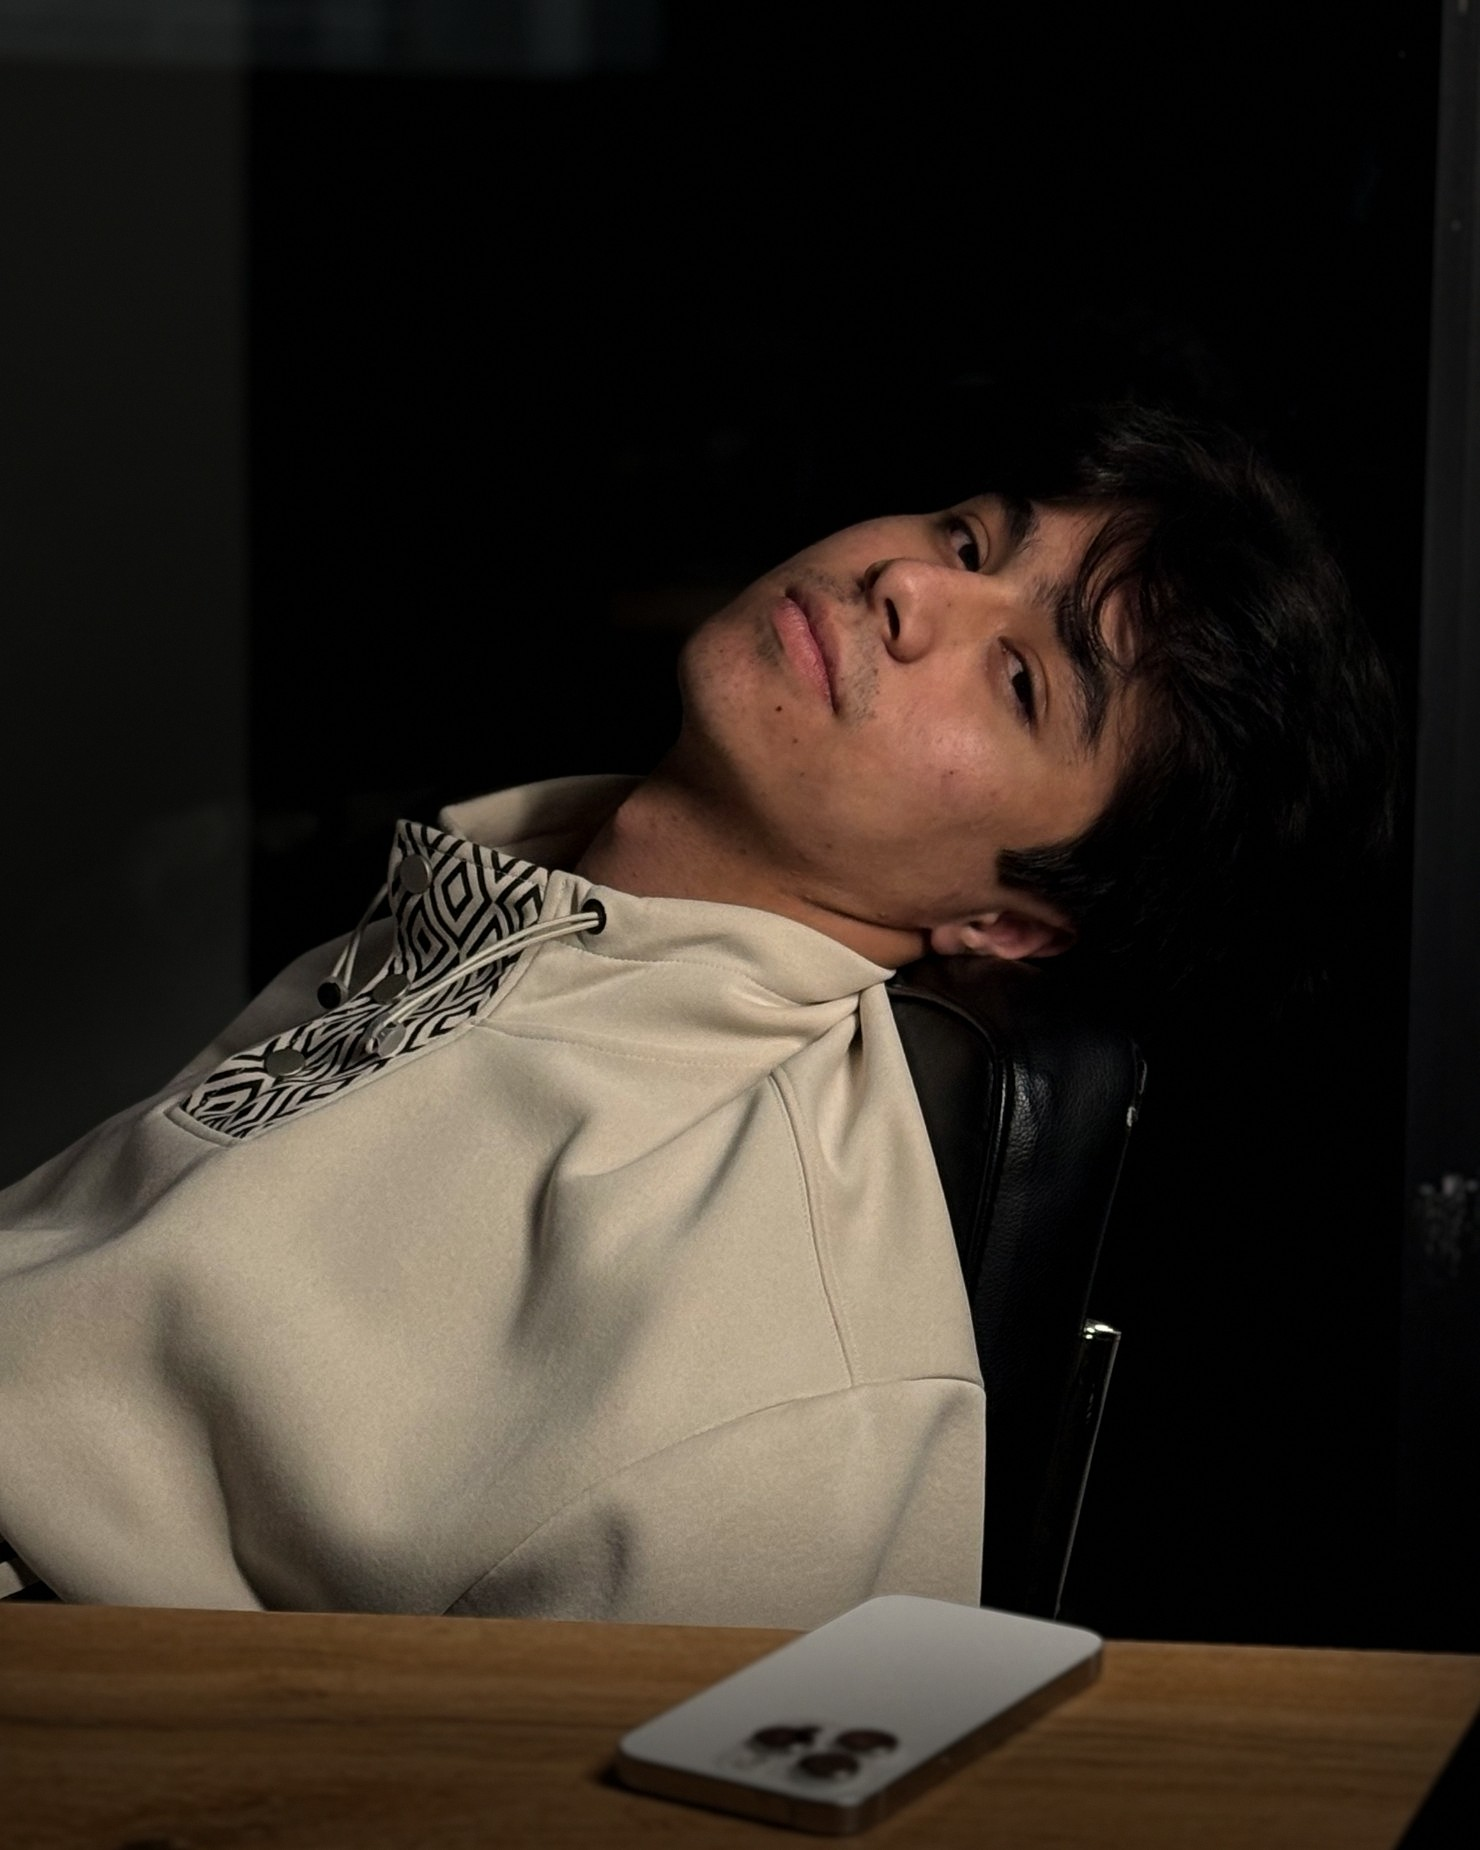
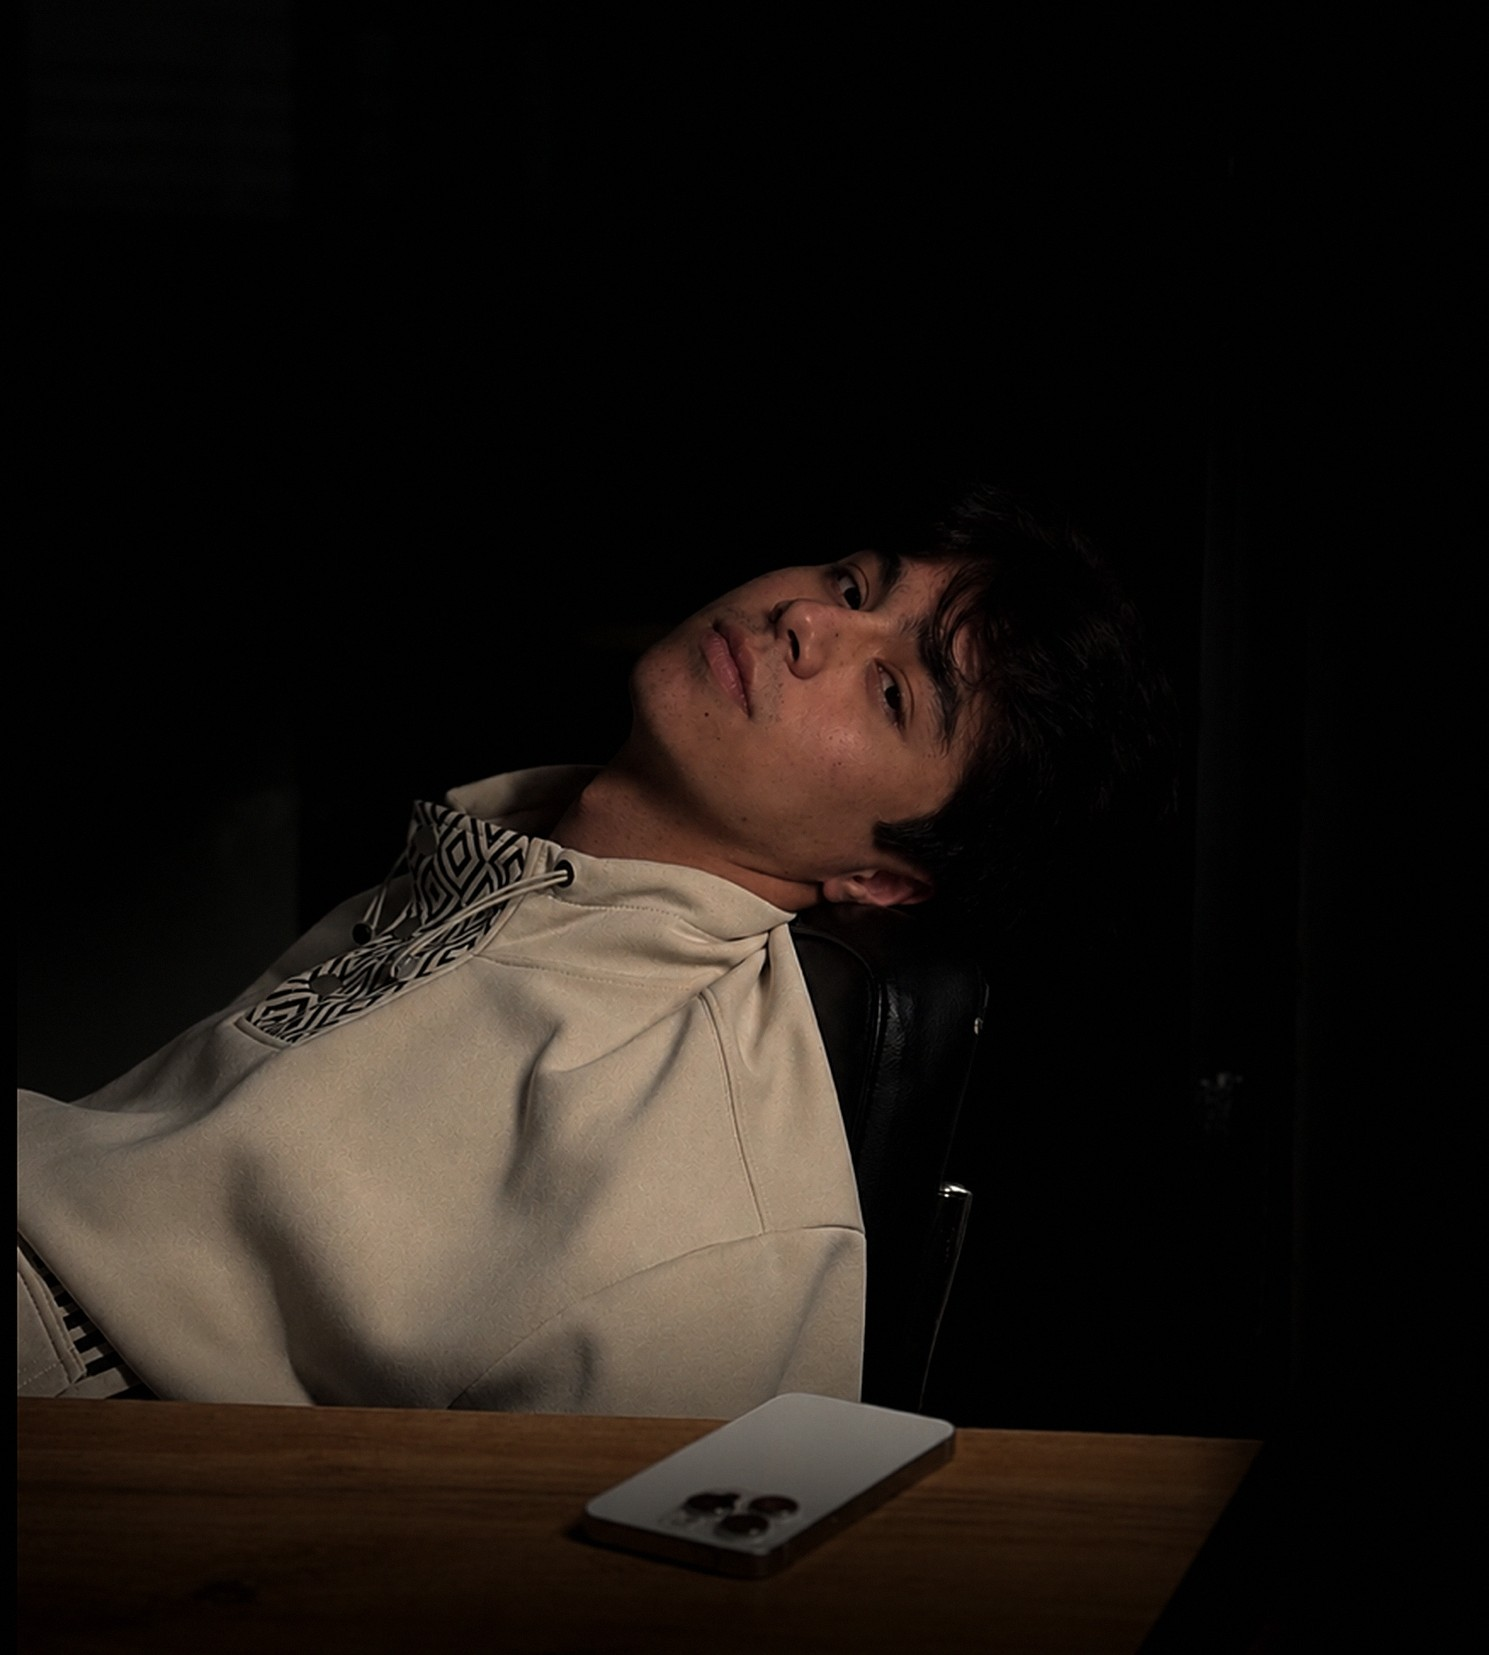
Home: new founder photo, FAQ section removed
Claude-Session: https://claude.ai/code/session_01UdeitsCY3sETaZTGToGCpC

diff --git a/features/marketing/components/HomePage.tsx b/features/marketing/components/HomePage.tsx
@@ -5,7 +5,6 @@ import { Logo } from "@/core/design/ui";
 import { BerryStripe, BtnLink, DesignPicker, Sprinkles, Sticker, ThemeButton } from "@/core/shell";
 import founder from "@/public/home/founder.jpg";
 import screen from "@/public/home/screen.jpg";
-import { Faq } from "./Faq";
 import { Showcase } from "./Showcase";
 
 /**
@@ -19,7 +18,6 @@ const NAV = [
   { href: "#why", label: "Why us" },
   { href: "#designs", label: "Designs" },
   { href: "#profiles", label: "Profiles" },
-  { href: "#faq", label: "FAQ" },
 ];
 
 /** Where each photo fades into the page (CSS mask layers, all must be opaque to show). */
@@ -83,7 +81,7 @@ export function HomePage() {
           >
             <Image
               src={founder}
-              alt="The founder of QuantumTest, leaning back in his chair"
+              alt="The founder of QuantumTest, leaning back in a chair at a desk"
               priority
               placeholder="blur"
               sizes="(min-width: 1024px) 60vw, 100vw"
@@ -178,18 +176,6 @@ export function HomePage() {
             <span className="text-graphite">Photo. Bio. Rank.</span>
           </Title>
           <Showcase />
-        </div>
-      </section>
-
-      {/* FAQ */}
-      <section id="faq" className="relative scroll-mt-24 border-t border-hairline px-5 py-24 sm:px-8 sm:py-32">
-        <div className="mx-auto grid max-w-[1200px] gap-10 lg:grid-cols-[minmax(0,0.8fr)_minmax(0,1.2fr)]">
-          <Title>
-            Asked.
-            <br />
-            <span className="text-graphite">Answered.</span>
-          </Title>
-          <Faq />
         </div>
       </section>
 

diff --git a/CLAUDE.md b/CLAUDE.md
@@ -43,7 +43,7 @@ steps, and run `npm run check` before saying something is done.
 - Logo: a "Q" ring with a short tail and a small particle in orbit (`core/design/ui/Logo.tsx`, `app/icon.svg`), colored by the design; Strawberry shows a strawberry. `Wordmark` is "Quantum" + "Test".
 - English/Math switch (`SubjectSegment`): bigger, tinted track in the main color, chosen subject solid.
 - The exam screens (test, practice while running, review; class `exam`) never change with the design: they keep the Bluebook look below.
-- Home page, third pass (owner request 28 Nov 2026, second round the same night; replaces the description below where they differ): two always-dark sections (`.fp-dark`: the design's dark colors even in light mode) built around the owner's photos, which melt into the page (`.fp-blend` in globals.css: edges fade out with a CSS mask, the photo's blacks become the page's own background with a `lighten` layer, a soft light in the design's main color behind; `--fp-keep` cuts the TV screen out of that layer so it keeps its colors). 1) Hero: `public/home/founder.jpg` on the right (relit, face and pose untouched), "They not like us." / "We don't sell hope. We give it." / Start + Why us? on the left, aligned with his face, and a giant "QuantumTest" (the page's h1) across the photo's faded bottom. 2) `public/home/screen.jpg`: the owner holding a light toward a TV that shows our dashboard in Nerd dark mode (a real capture of /dev/dashboard warped onto the screen; his profile shows 780; NYU stickers on the stand painted out), with "Why us? / Explore. / Not another prep site.". Then the design dial, Profiles ("Make it yours. Photo. Bio. Rank." + `Showcase`), FAQ, closing banner "Your choice.". No feature tags on the photo, no collage hero, facts strip or bento (owner request). Voice: mysterious, short, bold, direct, cold, nonchalant, intelligent, never cliché. New visitors get dark mode (THEME_SCRIPT: no saved theme = dark; "Match device" is saved as "system").
+- Home page, third pass (owner request 28 Nov 2026, second round the same night; replaces the description below where they differ): two always-dark sections (`.fp-dark`: the design's dark colors even in light mode) built around the owner's photos, which melt into the page (`.fp-blend` in globals.css: edges fade out with a CSS mask, the photo's blacks become the page's own background with a `lighten` layer, a soft light in the design's main color behind; `--fp-keep` cuts the TV screen out of that layer so it keeps its colors). 1) Hero: `public/home/founder.jpg` on the right (the owner leaning back at a desk, his photo of 28 Nov 2026; relit so the wall fades to dark, face and pose untouched, no skin retouch), "They not like us." / "We don't sell hope. We give it." / Start + Why us? on the left, aligned with his face, and a giant "QuantumTest" (the page's h1) across the photo's faded bottom. 2) `public/home/screen.jpg`: the owner holding a light toward a TV that shows our dashboard in Nerd dark mode (a real capture of /dev/dashboard warped onto the screen; his profile shows 780; NYU stickers on the stand painted out), with "Why us? / Explore. / Not another prep site.". Then the design dial, Profiles ("Make it yours. Photo. Bio. Rank." + `Showcase`), closing banner "Your choice.". No feature tags on the photo, no collage hero, facts strip, bento or FAQ (owner request; the "Asked. Answered." FAQ was removed 28 Nov 2026). Voice: mysterious, short, bold, direct, cold, nonchalant, intelligent, never cliché. New visitors get dark mode (THEME_SCRIPT: no saved theme = dark; "Match device" is saved as "system").
 - Home page (older notes; owner request 27 Nov 2026; second pass the same day: no demo question, show the features, far fewer words; premium like inter-nation.uz: one typeface, heavy tight headlines, real product pieces instead of stock art, bento cards, one dark band, floating pill menu): `features/marketing`. Inter (`fp-display`) for the whole page; floating glass pill nav; hero "Not another prep site." over an answer-sheet bubble backdrop (`BubbleField`) with a collage of real dashboard pieces (`Showcase`: sample profile photo, bio, stats, ranking, score on the 400–1600 scale, a roast); a facts strip computed from `core/config/subjects.ts` (never invented numbers); a dark "design dial" band where `DesignPicker` re-skins the page live; a bento of real pieces (adaptive diagram, `ScoreScale`, `Bubbles`, highlights, mistakes, `SubjectShowcase`); `Faq`; a dark closing band. Dark bands use `--fp-deep` per design.
 
 ## Premium web lessons (studied from inter-nation.uz, owner request 27 Nov 2026)
